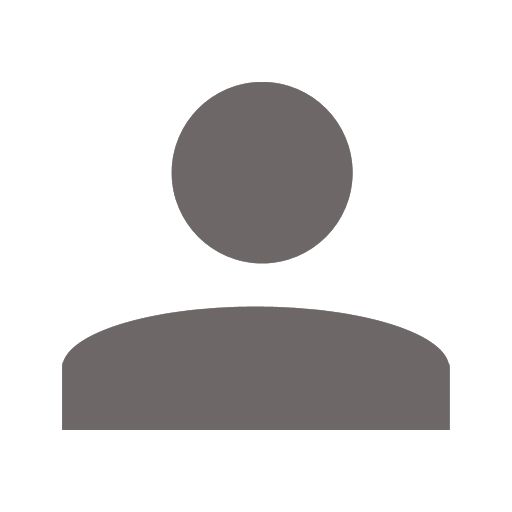
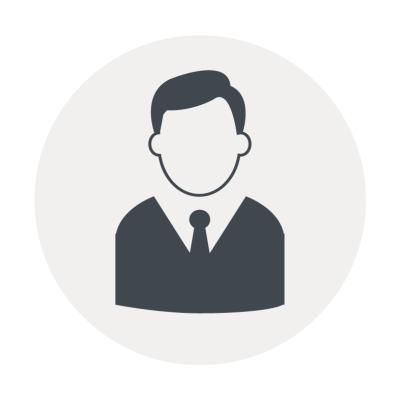
v 0.2.0 First Realese

Changed region(s): [[0.12, 0.15, 0.9, 0.84]]

diff --git a/app/Http/Controllers/DocCliController.php b/app/Http/Controllers/DocCliController.php
@@ -14,6 +14,11 @@ use knet\WebModels\wDdtOk;
 
 class DocCliController extends Controller
 {
+
+    public function __construct(){
+      $this->middleware('auth');
+    }
+    
   public function index (Request $req, $tipomodulo=null){
     $docs = DocCli::select('id', 'tipodoc', 'numerodoc', 'datadoc', 'codicecf', 'numerodocf', 'numrighepr', 'totdoc');
     if ($tipomodulo){
@@ -54,21 +59,27 @@ class DocCliController extends Controller
     if($req->input('ragsoc')) {
       $ragsoc = strtoupper($req->input('ragsoc'));
       if($req->input('ragsocOp')=='eql'){
-        $docs = $docs->with(array('client' => function($query) {
-          $query->where('descrizion', strtoupper($req->input('ragsoc')));
-        }));
+        $docs = $docs->whereHas('client', function ($query) use ($ragsoc){
+          $query->where('descrizion', $ragsoc)
+          ->withoutGlobalScope('agent')
+          ->withoutGlobalScope('superAgent')
+          ->withoutGlobalScope('client');
+        });
       }
       if($req->input('ragsocOp')=='stw'){
-        $docs = $docs->with(array('client' => function($query) {
-          $query->where('descrizion', 'LIKE', strtoupper($req->input('ragsoc')).'%');
-        }));
+        $docs = $docs->whereHas('client', function ($query) use ($ragsoc){
+          $query->where('descrizion', 'like', $ragsoc.'%')
+          ->withoutGlobalScope('agent')
+          ->withoutGlobalScope('superAgent')
+          ->withoutGlobalScope('client');
+        });
       }
       if($req->input('ragsocOp')=='cnt'){
-        // $docs = $docs->with(array('client' => function($query) {
-        //   $query->where('descrizion', 'LIKE', '%'.strtoupper($req->input('ragsoc')).'%');
-        // }));
         $docs = $docs->whereHas('client', function ($query) use ($ragsoc){
-          $query->where('descrizion', 'like', '%'.$ragsoc.'%');
+          $query->where('descrizion', 'like', '%'.$ragsoc.'%')
+          ->withoutGlobalScope('agent')
+          ->withoutGlobalScope('superAgent')
+          ->withoutGlobalScope('client');
         });
       }
     }
@@ -134,7 +145,12 @@ class DocCliController extends Controller
       ->withoutGlobalScope('client');
     }]);
     if ($tipoDoc->tipomodulo=='F'){
-        $head = $head->with('scadenza');
+        $head = $head->with(['scadenza' => function($query) {
+          $query
+          ->withoutGlobalScope('agent')
+          ->withoutGlobalScope('superAgent')
+          ->withoutGlobalScope('client');
+        }]);
     } elseif ($tipoDoc->tipomodulo=='B') {
         $head = $head->with('vettore', 'detBeni');
     }
@@ -151,7 +167,7 @@ class DocCliController extends Controller
     $prevDocs = DocCli::select('id', 'tipodoc', 'numerodoc', 'datadoc')->whereIn('id', $prevIds->pluck('riffromt'))->get();
     $nextIds = DocRow::distinct('id_testa')->where('riffromt', $id_testa)->get();
     $nextDocs = DocCli::select('id', 'tipodoc', 'numerodoc', 'datadoc')->whereIn('id', $nextIds->pluck('id_testa'))->get();
-    // dd($nextDocs);
+    // dd($head);
     return view('docs.detail', [
       'head' => $head,
       'rows' => $rows,

diff --git a/resources/views/layouts/partials/mainheader.blade.php b/resources/views/layouts/partials/mainheader.blade.php
@@ -124,7 +124,7 @@
                         <ul class="dropdown-menu">
                             <!-- The user image in the menu -->
                             <li class="user-header">
-                                <img src="{{asset('/img/user2-160x160.jpg')}}" class="img-circle" alt="User Image" />
+                                <img src="{{asset('/img/avatar_default.jpg')}}" class="img-circle" alt="User Image" />
                                 <p>
                                     {{ Auth::user()->name }}
                                     <small>{{ trans('adminlte_lang::message.login') }} Nov. 2012</small>
@@ -144,9 +144,11 @@
                             </li> --}}
                             <!-- Menu Footer-->
                             <li class="user-footer">
+                              @if (!Auth::user()->hasRole('client') && !Auth::user()->hasRole('agent') && !Auth::user()->hasRole('superAgent'))
                                 <div class="pull-left">
-                                    <a href="#" class="btn btn-default btn-flat">{{ trans('adminlte_lang::message.profile') }}</a>
+                                    <a href="{{ route('user::users.edit', Auth::user()->id ) }}" class="btn btn-default btn-flat">{{ trans('adminlte_lang::message.profile') }}</a>
                                 </div>
+                              @endif
                                 <div class="pull-right">
                                     <a href="{{ url('/logout') }}" class="btn btn-default btn-flat">{{ trans('adminlte_lang::message.signout') }}</a>
                                 </div>
@@ -154,11 +156,12 @@
                         </ul>
                     </li>
                 @endif
-
-                <!-- Control Sidebar Toggle Button -->
-                <li>
-                    <a href="#" data-toggle="control-sidebar"><i class="fa fa-gears"></i></a>
-                </li>
+                @if (!Auth::user()->hasRole('client') && !Auth::user()->hasRole('agent') && !Auth::user()->hasRole('superAgent'))
+                  <!-- Control Sidebar Toggle Button -->
+                  <li>
+                      <a href="#" data-toggle="control-sidebar"><i class="fa fa-gears"></i></a>
+                  </li>
+                @endif
             </ul>
         </div>
     </nav>

diff --git a/resources/views/todo.blade.php b/resources/views/todo.blade.php
@@ -1,0 +1,48 @@
+@extends('layouts.app')
+
+@section('htmlheader_title')
+    - ToDo List
+@endsection
+
+@section('contentheader_title')
+    #ToDo List
+@endsection
+
+@section('contentheader_breadcrumb')
+  {!! Breadcrumbs::render('home') !!}
+@endsection
+
+@section('main-content')
+  <div class="row">
+    <div class="container">
+      <div class="col-lg-12">
+        <div class="box box-default">
+          <div class="box-header with-border">
+            <h3 class="box-title" data-widget="collapse">Lista delle Funzioni da Ultimare</h3>
+          </div>
+          <div class="box-body">
+            <h3>
+              <ul>
+               <li>Export PDF & Excel</li>
+               <br>
+               <li>Rubrica dei Contatti</li>
+               <br>
+               <li>Inserimento Pre-Ordini da Web</li>
+               <br>
+               <li>Funzioni Email Integrate</li>
+               <br>
+               <li><u>STATISTICHE</u>
+                 <ol>
+                   <li>ABC Clienti</li>
+                   <li>ABC Articoli su Cliente</li>
+                 </ol>
+               </li>
+               <br>
+             </ul>
+            </h3>
+          </div>
+        </div>
+      </div>
+    </div>
+  </div>
+@endsection

diff --git a/resources/views/layouts/partials/sidebar.blade.php b/resources/views/layouts/partials/sidebar.blade.php
@@ -51,12 +51,12 @@
             <li class="{{ Ekko::isActiveRoute('prod::*') }}"><a href="{{ route('prod::list') }}"><i class='fa fa-cube'></i> <span>Prodotti</span></a></li>
             <li><i class='fa fa-empty'></i></li>
 
+            @if (!Auth::user()->hasRole('client'))
             <li class="header">Funzioni Web</li>
-            <li class=""><a href="{{ route('doc::list', 'O') }}"><i class='fa fa-pencil-square-o'></i> <span>Pre-Ordini via Web</span></a></li>
+            {{-- <li class=""><a href="{{ route('doc::list', 'O') }}"><i class='fa fa-pencil-square-o'></i> <span>Pre-Ordini via Web</span></a></li> --}}
             <li class="{{ Ekko::isActiveRoute('visit::*') }}"><a href="{{ route('visit::insert') }}"><i class='fa fa-weixin'></i> <span>Inserimento Visite Clienti</span></a></li>
             <li><i class='fa fa-empty'></i></li>
 
-            @if (!Auth::user()->hasRole('client'))
             <li class="header">Statistiche</li>
             <li class="treeview {{ Ekko::isActiveRoute('stFatt::*') }}">
                 <a href="{{ route('stFatt::idxAg') }}"><i class='fa fa-line-chart'></i> <span>Statistiche Fatturato</span> <i class="fa fa-angle-left pull-right"></i></a>

diff --git a/resources/views/layouts/partials/footer.blade.php b/resources/views/layouts/partials/footer.blade.php
@@ -1,9 +1,16 @@
 <!-- Main Footer -->
 <footer class="main-footer">
     <!-- To the right -->
-    {{-- <div class="pull-right hidden-xs">
-        <a href="https://github.com/acacha/adminlte-laravel"></a><b>admin-lte-laravel</b></a>. {{ trans('adminlte_lang::message.descriptionpackage') }}
-    </div> --}}
+    <div class="pull-right hidden-xs">
+        <a href="{{ url("/todo") }}">#ToDo List...</a>
+    </div>
     <!-- Default to the left -->
-    <strong>Copyright &copy; 2016 <a href="http://www.k-group.com">K-Group</a>.</strong> {{ trans('adminlte_lang::message.createdby') }} <a href="https://github.com/lucaciotti">Luca Ciotti</a>. {{ trans('adminlte_lang::message.seecode') }} <a href="https://github.com/lucaciotti">Github</a>
+    <strong>
+      Copyright &copy; 2016
+      <a href="http://www.k-group.com">K-Group</a>.
+    </strong>
+    {{ trans('adminlte_lang::message.createdby') }}
+    <a href="https://github.com/lucaciotti">Luca Ciotti</a>.
+    {{-- {{ trans('adminlte_lang::message.seecode') }}
+    <a href="https://github.com/lucaciotti">Github</a> --}}
 </footer>

diff --git a/app/Http/Controllers/ScadCliController.php b/app/Http/Controllers/ScadCliController.php
@@ -3,6 +3,7 @@
 namespace knet\Http\Controllers;
 
 use Illuminate\Http\Request;
+use Illuminate\Support\Facades\DB;
 use Carbon\Carbon;
 
 use knet\Http\Requests;
@@ -10,12 +11,17 @@ use knet\ArcaModels\ScadCli;
 
 class ScadCliController extends Controller
 {
+
+    public function __construct(){
+      $this->middleware('auth');
+    }
+    
   public function index (Request $req){
     $startDate = Carbon::now()->subMonth();
     $endDate = Carbon::now();
 
     $scads = ScadCli::select('id', 'id_doc', 'numfatt', 'datafatt', 'datascad', 'codcf', 'tipomod', 'tipo', 'insoluto', 'u_insoluto', 'pagato', 'impeffval', 'importopag', 'idragg', 'tipoacc');
-    $scads = $scads->where('datascad', '<', Carbon::now())->where('pagato',0)->whereIn('tipoacc', ['F', '']);
+    $scads = $scads->where('datascad', '<', Carbon::now())->whereIn('tipoacc', ['F', ''])->whereRaw("(`insoluto` = 1 OR `u_insoluto` = 1) AND `pagato` = 0");
     $scads = $scads->with(array('client' => function($query) {
       $query->select('codice', 'descrizion')
             ->withoutGlobalScope('agent')

diff --git a/app/Http/Controllers/HomeController.php b/app/Http/Controllers/HomeController.php
@@ -27,7 +27,7 @@ class HomeController extends Controller
      */
     public function __construct()
     {
-        // $this->middleware('auth');
+        $this->middleware('auth');
     }
 
     /**
@@ -42,7 +42,7 @@ class HomeController extends Controller
 
         $ordini = DocCli::where('tipomodulo', 'O')->where('numrighepr', '>', 0)->count();
         $bolle = DocCli::where('tipomodulo', 'B')->where('datadoc', '>=', $lastMonth)->doesntHave('wDdtOk')->count();
-        $scadenze = ScadCli::where('datascad', '<', $dt)->where('pagato',0)->whereIn('tipoacc', ['M', ''])->count();
+        $scadenze = ScadCli::where('datascad', '<', $dt)->whereRaw("(`insoluto` = 1 OR `u_insoluto` = 1) AND `pagato` = 0")->whereIn('tipoacc', ['M', ''])->count();
 
         $articoli = Product::whereIn('statoart', ['1','8'])
                       ->where('classe', 'NOT LIKE', 'DIC%')

diff --git a/resources/views/scads/partials/tblIndex.blade.php b/resources/views/scads/partials/tblIndex.blade.php
@@ -22,7 +22,8 @@
         @endif
           <td>
             <span>{{$scad->datascad->format('Ymd')}}</span>
-            <a href="{{ route('scad::detail', $scad->id ) }}"> {{ $scad->datascad->format('d-m-Y') }}</a>
+            {{-- <a href="{{ route('scad::detail', $scad->id ) }}"> {{ $scad->datascad->format('d-m-Y') }}</a> --}}
+            {{ $scad->datascad->format('d-m-Y') }}
           </td>
           <td>
             @if($scad->pagato==1)
@@ -50,7 +51,8 @@
           </td>
           <td>
             @if($scad->idragg>0)
-              <a href="{{ route('scad::detail', $scad->idragg ) }}"> Accorpata</a>
+              {{-- <a href="{{ route('scad::detail', $scad->idragg ) }}"> Accorpata</a> --}}
+              <a href="#"> Accorpata</a>
             @endif
           </td>
           <td>{{ $scad->desc_pag }}</td>

diff --git a/app/Http/Controllers/ClientController.php b/app/Http/Controllers/ClientController.php
@@ -22,19 +22,9 @@ use knet\User;
 class ClientController extends Controller
 {
 
-    // public function __construct(Request $req){
-    //   dd($req->user);
-    //   if (Auth::check() && $req->user->hasRole('agent')){
-    //     static::addGlobalScope('agent', function(Builder $builder) {
-    //         $builder->where('agente', 'AM1');
-    //     });
-    //     // static::addGlobalScope('superAgent', function(Builder $builder) {
-    //     //   $builder->whereHas('agent', function ($query){
-    //     //     $query->where('u_capoa', 'AM2');
-    //     //   });
-    //     // });
-    //   }
-    // }
+    public function __construct(){
+      $this->middleware('auth');
+    }
 
     public function index (Request $req){
 

diff --git a/resources/views/client/detail.blade.php b/resources/views/client/detail.blade.php
@@ -209,7 +209,7 @@
         @include('scads.partials.tblGeneric', $scads)
       </div>
     </div>
-
+    @if (!Auth::user()->hasRole('client'))
     <div class="box box-default">
       <div class="box-header with-border">
         <h3 class="box-title" data-widget="collapse">Statistiche Cliente</h3>
@@ -221,11 +221,11 @@
         <a type="button" class="btn btn-default btn-block" href="{{ route('stFatt::fltCli', $client->codice) }}">Fatturato</a>
       </div>
     </div>
-
+    @endif
   </div>
 
 </div>
-
+@if (!Auth::user()->hasRole('client'))
 <div class="row">
 
   <div class="col-lg-6">
@@ -251,7 +251,7 @@
 
   </div>
 </div>
-
+@endif
 <script type="text/javascript">
 
     function onMapLoad(map)

diff --git a/resources/views/layouts/landing.blade.php b/resources/views/layouts/landing.blade.php
@@ -254,7 +254,7 @@ Landing page based on Pratt: http://blacktie.co/demo/pratt/
             </p>
         </div>
 
-        <div class="col-lg-7">
+        {{-- <div class="col-lg-7">
             <h3>{{ trans('adminlte_lang::message.dropus') }}</h3>
             <br>
             <form role="form" action="#" method="post" enctype="plain">
@@ -273,7 +273,7 @@ Landing page based on Pratt: http://blacktie.co/demo/pratt/
                 <br>
                 <button type="submit" class="btn btn-large btn-success">{{ trans('adminlte_lang::message.submit') }}</button>
             </form>
-        </div>
+        </div> --}}
     </div>
 </div>
 <div id="c">

diff --git a/resources/views/user/edit.blade.php b/resources/views/user/edit.blade.php
@@ -34,7 +34,7 @@
             </div>
             <div class="form-group">
               <label>Email</label>
-              <input type="text" class="form-control" name="email" value="{{$user->email}}">
+              <input type="text" class="form-control" name="email" value="{{$user->email}}" disabled>
             </div>
             <div class="form-group">
               <label>Ruolo</label>
